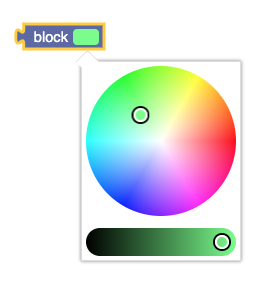
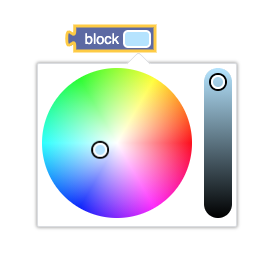
fixed color field drop down positioning

diff --git a/src/index.ts b/src/index.ts
@@ -12,7 +12,7 @@ import iro from '@jaames/iro';
 import type {ColorPickerProps} from '@jaames/iro/dist/ColorPicker';
 
 /**
- * This is the class for the color wheel
+ * This is the class for the color wheel.
  */
 export class ColorWheelField extends Blockly.FieldColour {
   /**
@@ -56,12 +56,7 @@ export class ColorWheelField extends Blockly.FieldColour {
     editor.classList.add('blockly-color-wheel-container');
     // Will position the content.  The last argument is a
     // callback that used for cleanup.
-    Blockly.DropDownDiv.showPositionedByField(this, () => editor.remove());
-    console.log({
-      width: this.width, // controls the size of the color picker
-      color: this.getValue(), // starts the color picker at a certain value,
-      ...this.options, // These options will over ride everything
-    });
+
     // eslint-disable-next-line new-cap
     const colorPicker = iro.ColorPicker(editor, {
       width: this.width, // controls the size of the color picker
@@ -73,6 +68,7 @@ export class ColorWheelField extends Blockly.FieldColour {
     colorPicker.on('color:change', (color) => {
       this.setValue(color.hexString);
     });
+    Blockly.DropDownDiv.showPositionedByField(this, () => editor.remove());
   }
 }
 

diff --git a/test/index.ts b/test/index.ts
@@ -18,7 +18,7 @@ const toolbox = generateFieldTestBlocks('color_wheel', [
       color: '#FF00FF',
       width: 140,
       options: {
-        layoutDirection: 'horizontal',
+        layoutDirection: 'vertical',
       },
     },
   },
